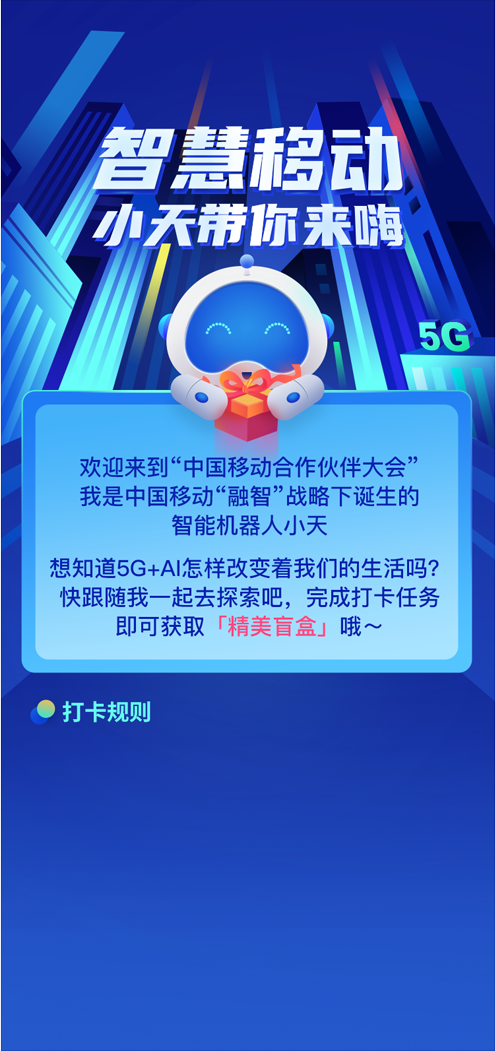
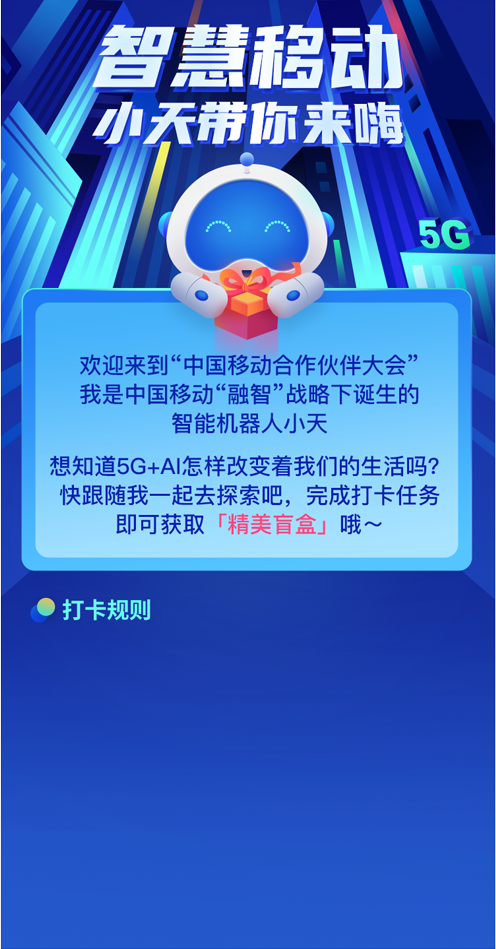
home-background

diff --git a/src/views/home/index.vue b/src/views/home/index.vue
@@ -59,7 +59,7 @@ export default {
     cursor: pointer;
     .index-content {
         position: absolute;
-        top: 510px;
+        top: 485px;
         z-index: 2;
         .index-rules {
           font-size: 14px;
